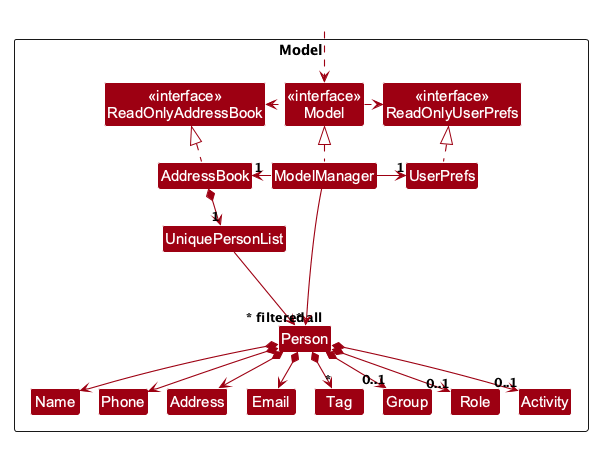
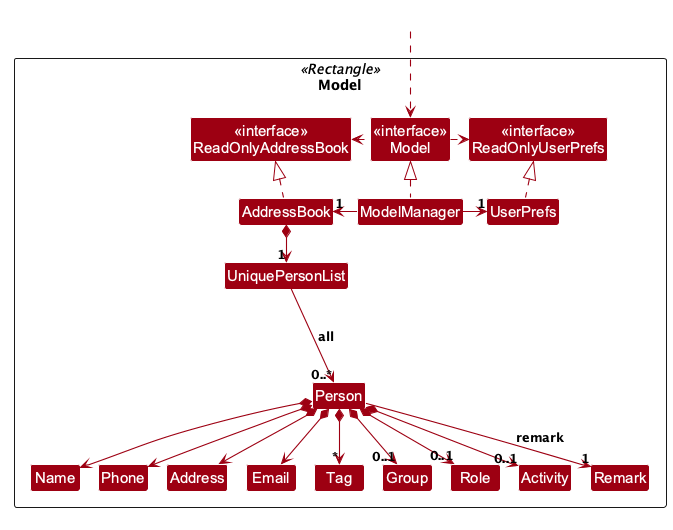
Document backward-compatible remark persistence
The storage increment needs an explicit contract for older files and
for the command and UI work that depends on the new value object.

Describe empty and null defaults, exact text preservation, unchanged
read bytes and preservation through existing commands. Distinguish
storage support from the separate remark command and card display.

Update and render the model and storage diagrams to show one Remark
per participant and its JSON string representation.

Changed region(s): [[0.0, 0.0617, 0.9983, 0.9868]]

diff --git a/docs/DeveloperGuide.md b/docs/DeveloperGuide.md
@@ -162,6 +162,25 @@ The class diagram shows the stable storage contracts and JSON adapters rather th
 participant contains its own nullable group, role, and activity strings and a list of tag adapters; there is no
 separate persisted group, role, or activity directory. The `0..*` multiplicities allow an empty directory or no tags.
 
+### Backward-compatible participant remarks
+
+`Person` holds one non-null immutable `Remark`; `Remark.value` is free text and `""` means no note. Text is retained
+exactly, including Unicode, whitespace, quotes and line breaks. Legacy `Person` constructors default to an empty
+remark, while the full constructor accepts it after the optional group. `getRemark()` provides the value for
+dependent command and UI increments. Remark changes affect `equals` and `hashCode`, but not name-based identity.
+The partial model diagram focuses on stored participant values; the derived filtered/sorted view pipeline is
+described in the Model component text rather than expanded in this diagram.
+
+`JsonAdaptedPerson` stores `remark` as a JSON string. Its creator maps an absent or JSON `null` property to an empty
+remark during conversion; saving emits the string, including `""`. Existing files need no manual migration or
+deletion, and a read leaves their bytes unchanged. All paths that replace a `Person` in edit, assign-group,
+assign-role, assign-activity and unassign carry the original remark forward. No new command, prefix or UI rendering
+is introduced here; the remark command, detail output and card rendering are separate increments.
+
+`RemarkStorageTest` covers legacy/null/empty input, unchanged bytes on read and full-field disk round trips.
+`RemarkPreservationIntegrationTest` exercises edit, each assignment and each unassignment through parser, logic
+and real storage using sorted/filtered displayed indices. It also checks invalid-index rejection without data loss.
+
 ### Participant data at startup
 
 `MainApp` creates the editable model, logic and UI only after participant data loads. `JsonAddressBookStorage`

diff --git a/docs/UserGuide.md b/docs/UserGuide.md
@@ -475,7 +475,12 @@ ZoomAddress automatically saves data after every successful command. You do not 
 Participant saves first prepare the complete JSON and write it to a temporary file in the data folder. The previous
 file is replaced only through an atomic filesystem move; ZoomAddress does not fall back to truncating the data file
 if atomic replacement is unsupported. For an existing file, a temporary recovery copy is kept until replacement
-succeeds. The JSON format and assignment fields are unchanged.
+succeeds. Existing participant and assignment fields retain their format.
+
+Participant records also support an optional text `remark` field. Older data files with no `remark`, or a JSON
+`null` remark, load with empty remark text; reading does not rewrite the file. A later successful save writes the
+remark as a JSON string, including `""` for no remark. Existing edit, assignment and unassignment commands preserve
+this text. This storage increment does not yet add a remark command or show remarks on participant cards.
 
 If preparing the participant snapshot or serializing it fails, ZoomAddress reports a save error before creating
 temporary files or replacing the saved file.
